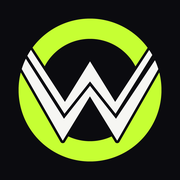
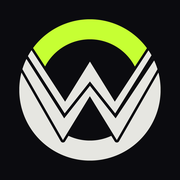
preview 10-21 19:11

diff --git a/OWCS KR 일정.html b/OWCS KR 일정.html
@@ -158,7 +158,7 @@ html[data-owcs-dark] .pill.done{background:#24242C}
 html[data-owcs-dark] .sc{box-shadow:inset 0 0 0 1px #2E2E37}
 html[data-owcs-dark] .eyebrow,html[data-owcs-dark] .day.today .dd b{color:#B89BFF}
 </style>
-<script src="./owcs-nav.js?v=1021184816"></script>
+<script src="./owcs-nav.js?v=1021191107"></script>
 </head>
 <body class="streams-page sched-page">
 <header><div class="wrap">
@@ -184,12 +184,12 @@ html[data-owcs-dark] .eyebrow,html[data-owcs-dark] .day.today .dd b{color:#B89BF
 </main>
 <footer class="owft"><div class="wrap ft-g"><div><div class="ft-logo"><span class="owt"><b>OW</b>TICKER</span></div><div class="ft-desc">OWCS 한국 경기의 일정, 결과, 선수 정보를 한국 팬을 위해 한곳에 모았어요.</div><div class="ft-ch"><span class="ft-k">OWCS 공식 채널</span><a href="https://x.com/OW_Esports_Asia" target="_blank" rel="noopener"><img src="assets/icons/x.png" alt="">X</a><a href="https://www.instagram.com/ow_esports_kr/" target="_blank" rel="noopener"><img src="assets/icons/instagram.png" alt="">Instagram</a><a href="https://www.sooplive.co.kr/station/owesports" target="_blank" rel="noopener"><img src="assets/icons/soop.png" alt="">SOOP 방송국</a></div></div><div><div class="ft-k">문의</div><a class="ft-mail" href="mailto:dlworhs26@gmail.com">dlworhs26@gmail.com</a></div><div class="ft-note">일정은 Liquipedia에서 10분마다 가져와요. 비공식 팬 사이트입니다. Blizzard Entertainment, WDG, 각 팀과 제휴하거나 승인받지 않았습니다. Overwatch®와 영웅 이미지는 Blizzard Entertainment, Inc.의 상표·저작물이고, 팀 로고와 선수 사진의 권리는 각 소유자에게 있으며 요청하면 바로 내립니다.</div></div></footer>
 
-<script src="./owcs-data.js?v=1021184816"></script>
-<script src="./owcs-phase.js?v=1021184816"></script>
-<script src="./owcs-i18n.js?v=1021184816"></script>
-<script src="./owcs-stats.js?v=1021184816"></script>
-<script src="./owcs-dark.js?v=1021184816"></script>
-<script src="./owcs-bracket.js?v=1021184816"></script>
+<script src="./owcs-data.js?v=1021191107"></script>
+<script src="./owcs-phase.js?v=1021191107"></script>
+<script src="./owcs-i18n.js?v=1021191107"></script>
+<script src="./owcs-stats.js?v=1021191107"></script>
+<script src="./owcs-dark.js?v=1021191107"></script>
+<script src="./owcs-bracket.js?v=1021191107"></script>
 <script>
 (function () {
   var D = window.OWCS || { teams: [], matches: [] };
@@ -391,6 +391,6 @@ html[data-owcs-dark] .eyebrow,html[data-owcs-dark] .day.today .dd b{color:#B89BF
   setTeam(F.team);
 })();
 </script>
-<script src="./owcs-theme-wise.js?v=1021184816"></script>
+<script src="./owcs-theme-wise.js?v=1021191107"></script>
 </body>
 </html>

diff --git a/OWCS KR 방송.html b/OWCS KR 방송.html
@@ -91,7 +91,7 @@ footer{padding:32px 0 56px;background:#0B0B0F;color:#8A8A93;font-size:13px;line-
   .who small,.go{display:none}
 }
 </style>
-<script src="./owcs-nav.js?v=1021184816"></script>
+<script src="./owcs-nav.js?v=1021191107"></script>
 </head>
 <body class="streams-page">
 <header><div class="wrap">
@@ -114,12 +114,12 @@ footer{padding:32px 0 56px;background:#0B0B0F;color:#8A8A93;font-size:13px;line-
 </main>
 <footer class="owft"><div class="wrap ft-g"><div><div class="ft-logo"><span class="owt"><b>OW</b>TICKER</span></div><div class="ft-desc">OWCS 한국 경기의 일정, 결과, 선수 정보를 한국 팬을 위해 한곳에 모았어요.</div><div class="ft-ch"><span class="ft-k">OWCS 공식 채널</span><a href="https://x.com/OW_Esports_Asia" target="_blank" rel="noopener"><img src="assets/icons/x.png" alt="">X</a><a href="https://www.instagram.com/ow_esports_kr/" target="_blank" rel="noopener"><img src="assets/icons/instagram.png" alt="">Instagram</a><a href="https://www.sooplive.co.kr/station/owesports" target="_blank" rel="noopener"><img src="assets/icons/soop.png" alt="">SOOP 방송국</a></div></div><div><div class="ft-k">문의</div><a class="ft-mail" href="mailto:dlworhs26@gmail.com">dlworhs26@gmail.com</a></div><div class="ft-note">방송 상태는 CHZZK·SOOP에서 몇 분마다 확인해요. 비공식 팬 사이트입니다. Blizzard Entertainment, WDG, 각 팀과 제휴하거나 승인받지 않았습니다. Overwatch®와 영웅 이미지는 Blizzard Entertainment, Inc.의 상표·저작물이고, 팀 로고와 선수 사진의 권리는 각 소유자에게 있으며 요청하면 바로 내립니다.</div></div></footer>
 
-<script src="./owcs-data.js?v=1021184816"></script>
-<script src="./owcs-datapoll.js?v=1021184816"></script>
-<script src="./owcs-phase.js?v=1021184816"></script>
-<script src="./owcs-i18n.js?v=1021184816"></script>
-<script src="./owcs-stats.js?v=1021184816"></script>
-<script src="./owcs-dark.js?v=1021184816"></script>
+<script src="./owcs-data.js?v=1021191107"></script>
+<script src="./owcs-datapoll.js?v=1021191107"></script>
+<script src="./owcs-phase.js?v=1021191107"></script>
+<script src="./owcs-i18n.js?v=1021191107"></script>
+<script src="./owcs-stats.js?v=1021191107"></script>
+<script src="./owcs-dark.js?v=1021191107"></script>
 <script>
 (function () {
   var D = window.OWCS || { teams: [], players: [], standings: [], live: {} };
@@ -187,6 +187,6 @@ footer{padding:32px 0 56px;background:#0B0B0F;color:#8A8A93;font-size:13px;line-
   }, 60000);
 })();
 </script>
-<script src="./owcs-theme-wise.js?v=1021184816"></script>
+<script src="./owcs-theme-wise.js?v=1021191107"></script>
 </body>
 </html>

diff --git a/OWCS KR Home v6.dc.html b/OWCS KR Home v6.dc.html
@@ -17,18 +17,18 @@
 <meta charset="utf-8">
 <meta name="viewport" content="width=device-width, initial-scale=1">
 <script>window.__resources = window.__resources || {};</script>
-<script src="./owcs-data.js?v=1021184816"></script>
-<script src="./owcs-datapoll.js?v=1021184816"></script>
-<script src="./owcs-phase.js?v=1021184816"></script>
-<script src="./owcs-i18n.js?v=1021184816"></script>
-<script src="./owcs-stats.js?v=1021184816"></script>
-<script src="./owcs-nav.js?v=1021184816"></script>
-<script src="./owcs-test.js?v=1021184816"></script>
-<script src="./owcs-maps.js?v=1021184816"></script>
-<script src="./owcs-bracket.js?v=1021184816"></script>
-<script src="./support.js?v=1021184816"></script>
-<script src="./owcs-theme.js?v=1021184816"></script>
-<script src="./owcs-theme-wise.js?v=1021184816"></script>
+<script src="./owcs-data.js?v=1021191107"></script>
+<script src="./owcs-datapoll.js?v=1021191107"></script>
+<script src="./owcs-phase.js?v=1021191107"></script>
+<script src="./owcs-i18n.js?v=1021191107"></script>
+<script src="./owcs-stats.js?v=1021191107"></script>
+<script src="./owcs-nav.js?v=1021191107"></script>
+<script src="./owcs-test.js?v=1021191107"></script>
+<script src="./owcs-maps.js?v=1021191107"></script>
+<script src="./owcs-bracket.js?v=1021191107"></script>
+<script src="./support.js?v=1021191107"></script>
+<script src="./owcs-theme.js?v=1021191107"></script>
+<script src="./owcs-theme-wise.js?v=1021191107"></script>
 <!-- Section reveal animation: fade-in + zoom-in-95 + slide-in-from-top-2 on each section's content.
      Only adds a temporary data attribute; section markup and styles are untouched. -->
 <style>

diff --git a/OWCS KR Results.dc.html b/OWCS KR Results.dc.html
@@ -16,18 +16,18 @@
 <meta charset="utf-8">
 <meta name="viewport" content="width=device-width, initial-scale=1">
 <script>window.__resources = window.__resources || {};</script>
-<script src="./owcs-data.js?v=1021184816"></script>
-<script src="./owcs-phase.js?v=1021184816"></script>
-<script src="./owcs-i18n.js?v=1021184816"></script>
-<script src="./owcs-stats.js?v=1021184816"></script>
-<script src="./owcs-nav.js?v=1021184816"></script>
-<script src="./owcs-dark.js?v=1021184816"></script>
-<script src="./owcs-test.js?v=1021184816"></script>
-<script src="./owcs-maps.js?v=1021184816"></script>
-<script src="./owcs-bracket.js?v=1021184816"></script>
-<script src="./support.js?v=1021184816"></script>
-<script src="./owcs-theme.js?v=1021184816"></script>
-<script src="./owcs-theme-wise.js?v=1021184816"></script>
+<script src="./owcs-data.js?v=1021191107"></script>
+<script src="./owcs-phase.js?v=1021191107"></script>
+<script src="./owcs-i18n.js?v=1021191107"></script>
+<script src="./owcs-stats.js?v=1021191107"></script>
+<script src="./owcs-nav.js?v=1021191107"></script>
+<script src="./owcs-dark.js?v=1021191107"></script>
+<script src="./owcs-test.js?v=1021191107"></script>
+<script src="./owcs-maps.js?v=1021191107"></script>
+<script src="./owcs-bracket.js?v=1021191107"></script>
+<script src="./support.js?v=1021191107"></script>
+<script src="./owcs-theme.js?v=1021191107"></script>
+<script src="./owcs-theme-wise.js?v=1021191107"></script>
 </head>
 <body>
 <x-dc>

diff --git a/owcs-nav.js b/owcs-nav.js
@@ -68,8 +68,8 @@
   var owt = '.owt{font-style:italic;letter-spacing:.02em;padding-right:.06em}.owt b{font-weight:inherit;color:var(--owt,#6E8F14)}' +
     'html[data-owcs-dark] .owt b{color:#C6FF33}' +
     // the logo mark: every page's header tile (a dark square with a lime dot, inline on some pages) drawn as the round logo
-    // (black on the beige page, lime in dark mode)
-    'a:has(> span .owt) > :first-child:not(span),[data-owcs-mtop] .mk{background:url(assets/app/' + (/[?&]logo=2/.test(location.search) ? 'logo-light2' : 'logo-light') + '.svg) center/contain no-repeat !important;border-radius:0 !important}' +
+    // (grey with a dark-lime top arc on the beige page, light grey and lime in dark mode)
+    'a:has(> span .owt) > :first-child:not(span),[data-owcs-mtop] .mk{background:url(assets/app/logo-light.svg) center/contain no-repeat !important;border-radius:0 !important}' +
     // (dark mode: <html data-owcs-dark> on the other pages; the home page only switches its theme box's --owt to lime)
     'html[data-owcs-dark] a:has(> span .owt) > :first-child:not(span),html[data-owcs-dark] [data-owcs-mtop] .mk,[style*="--owt: #C6FF33"] a:has(> span .owt) > :first-child:not(span),[style*="--owt:#C6FF33"] a:has(> span .owt) > :first-child:not(span){background-image:url(assets/app/logo-dark.svg) !important}' +
     'a:has(> span .owt) > :first-child:not(span) > *,a:has(> span .owt) > :first-child:not(span):after,[data-owcs-mtop] .mk > *{display:none !important}';

diff --git a/OWCS KR Player.dc.html b/OWCS KR Player.dc.html
@@ -16,16 +16,16 @@
 <meta charset="utf-8">
 <meta name="viewport" content="width=device-width, initial-scale=1">
 <script>window.__resources = window.__resources || {};</script>
-<script src="./owcs-data.js?v=1021184816"></script>
-<script src="./owcs-phase.js?v=1021184816"></script>
-<script src="./owcs-i18n.js?v=1021184816"></script>
-<script src="./owcs-stats.js?v=1021184816"></script>
-<script src="./owcs-nav.js?v=1021184816"></script>
-<script src="./owcs-dark.js?v=1021184816"></script>
-<script src="./owcs-test.js?v=1021184816"></script>
-<script src="./support.js?v=1021184816"></script>
-<script src="./owcs-theme.js?v=1021184816"></script>
-<script src="./owcs-theme-wise.js?v=1021184816"></script>
+<script src="./owcs-data.js?v=1021191107"></script>
+<script src="./owcs-phase.js?v=1021191107"></script>
+<script src="./owcs-i18n.js?v=1021191107"></script>
+<script src="./owcs-stats.js?v=1021191107"></script>
+<script src="./owcs-nav.js?v=1021191107"></script>
+<script src="./owcs-dark.js?v=1021191107"></script>
+<script src="./owcs-test.js?v=1021191107"></script>
+<script src="./support.js?v=1021191107"></script>
+<script src="./owcs-theme.js?v=1021191107"></script>
+<script src="./owcs-theme-wise.js?v=1021191107"></script>
 <script>
 // mobile/tablet Instagram carousel: one post per screen, swipe (scroll-snap) or the ‹ › buttons on the photo's sides
 (function () {

diff --git a/OWCS KR 직관.html b/OWCS KR 직관.html
@@ -156,7 +156,7 @@ body.ticket-page footer{background:#0B0B0F;color:#8A8A93;border:0}
   #schedule td.mv{grid-area:3/1/4/3}
 }
 </style>
-<script src="./owcs-nav.js?v=1021184816"></script>
+<script src="./owcs-nav.js?v=1021191107"></script>
 </head>
 <body class="ticket-page">
 <header><div class="wrap">
@@ -422,13 +422,13 @@ function draw() {
 }
 draw();
 </script>
-<script src="./owcs-data.js?v=1021184816"></script>
-<script src="./owcs-datapoll.js?v=1021184816"></script>
-<script src="./owcs-phase.js?v=1021184816"></script>
-<script src="./owcs-i18n.js?v=1021184816"></script>
-<script src="./owcs-stats.js?v=1021184816"></script>
-<script src="./owcs-dark.js?v=1021184816"></script>
-<script src="./owcs-theme-wise.js?v=1021184816"></script>
+<script src="./owcs-data.js?v=1021191107"></script>
+<script src="./owcs-datapoll.js?v=1021191107"></script>
+<script src="./owcs-phase.js?v=1021191107"></script>
+<script src="./owcs-i18n.js?v=1021191107"></script>
+<script src="./owcs-stats.js?v=1021191107"></script>
+<script src="./owcs-dark.js?v=1021191107"></script>
+<script src="./owcs-theme-wise.js?v=1021191107"></script>
 <script>
 // owcs-data.js loads after the first paint: redraw with its playoff days, start times and matchups
 if (window.OWCS) draw();

diff --git a/index.html b/index.html
@@ -12,7 +12,7 @@ iframe{border:0;transform-origin:0 0;display:block}
 </style></head><body>
 <header><span id="pages"></span>
 <select id="lang"><option value="">언어: 그대로</option><option value="ko">한국어</option><option value="ja">日本語</option><option value="en">English</option><option value="zh">中文</option></select>
-<button id="reload">새로고침</button><span class="note">미리보기 사이트 · 10-21 18:48 올림 · 진짜 사이트에 아직 안 올라간 수정 포함</span></header>
+<button id="reload">새로고침</button><span class="note">미리보기 사이트 · 10-21 19:11 올림 · 진짜 사이트에 아직 안 올라간 수정 포함</span></header>
 <main id="devs"></main>
 <script>
 const PAGES = [["홈", "OWCS KR Home v6.dc.html"], ["일정", "OWCS KR 일정.html"], ["결과", "OWCS KR Results.dc.html"], ["선수", "OWCS KR Player.dc.html"], ["방송", "OWCS KR 방송.html"], ["직관", "OWCS KR 직관.html"]], SIZES = [["PC", 1440, 900], ["태블릿", 768, 1024], ["모바일", 375, 812]];
